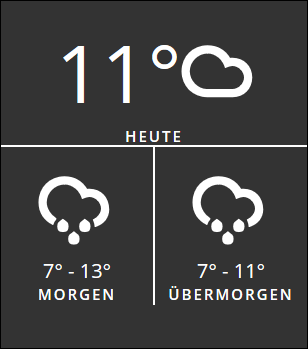
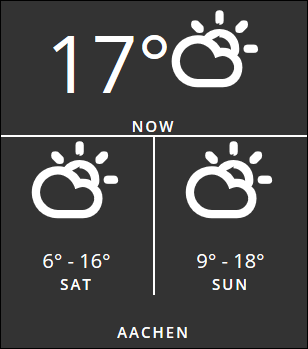
Update preview image and add location label to widget

diff --git a/widgets/klimato/klimato.html b/widgets/klimato/klimato.html
@@ -18,4 +18,4 @@
 	</tr>
 </table>
 <br/>
-<!--<h3 data-bind="location"></h3>-->
+<h3 data-bind="location"></h3>
